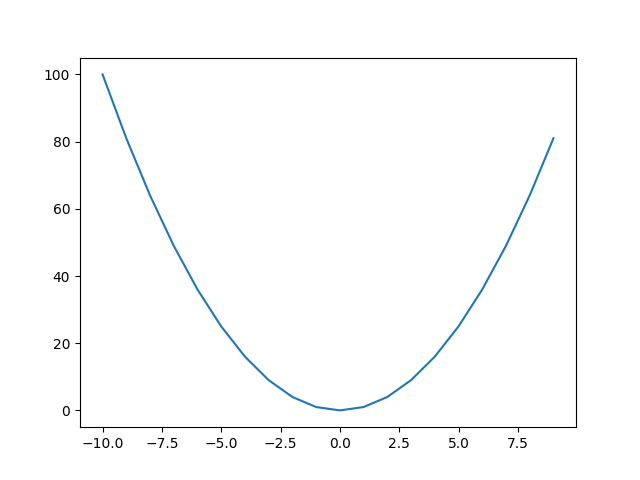
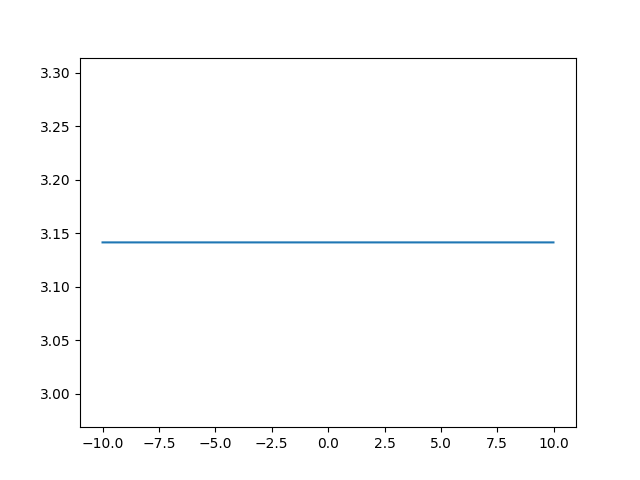
better render because it now includes math terms
but also remote execution because of stuff like `x));y=[]#`

diff --git a/server.py b/server.py
@@ -1,9 +1,11 @@
 
 import http.server
 import matplotlib.pyplot as plt
-
+from math import pi
 
 class Server (http.server.SimpleHTTPRequestHandler):
+
+    X=[i/100 for i in range(-1000,1000)]
 
     def _200(self,message:str):
         self.send_response(200)
@@ -50,7 +52,12 @@ class Server (http.server.SimpleHTTPRequestHandler):
             query=self.rfile.read(int(self.headers['Content-Length'])).decode()
             # Plot the function
             plt.clf()
-            plt.plot([x for x in range(-10,10)], [eval(query) for x in range(-10,10)])
+            query=query.lower().replace("x","{}")
+            y=[]
+            for x in self.X:
+                a=query.format(f"({x})")
+                exec(f"y.append({a})")
+            plt.plot(self.X,y)
             # Save the plot
             plt.savefig("images/plot.png")
             self._200_file("images/plot.png")
